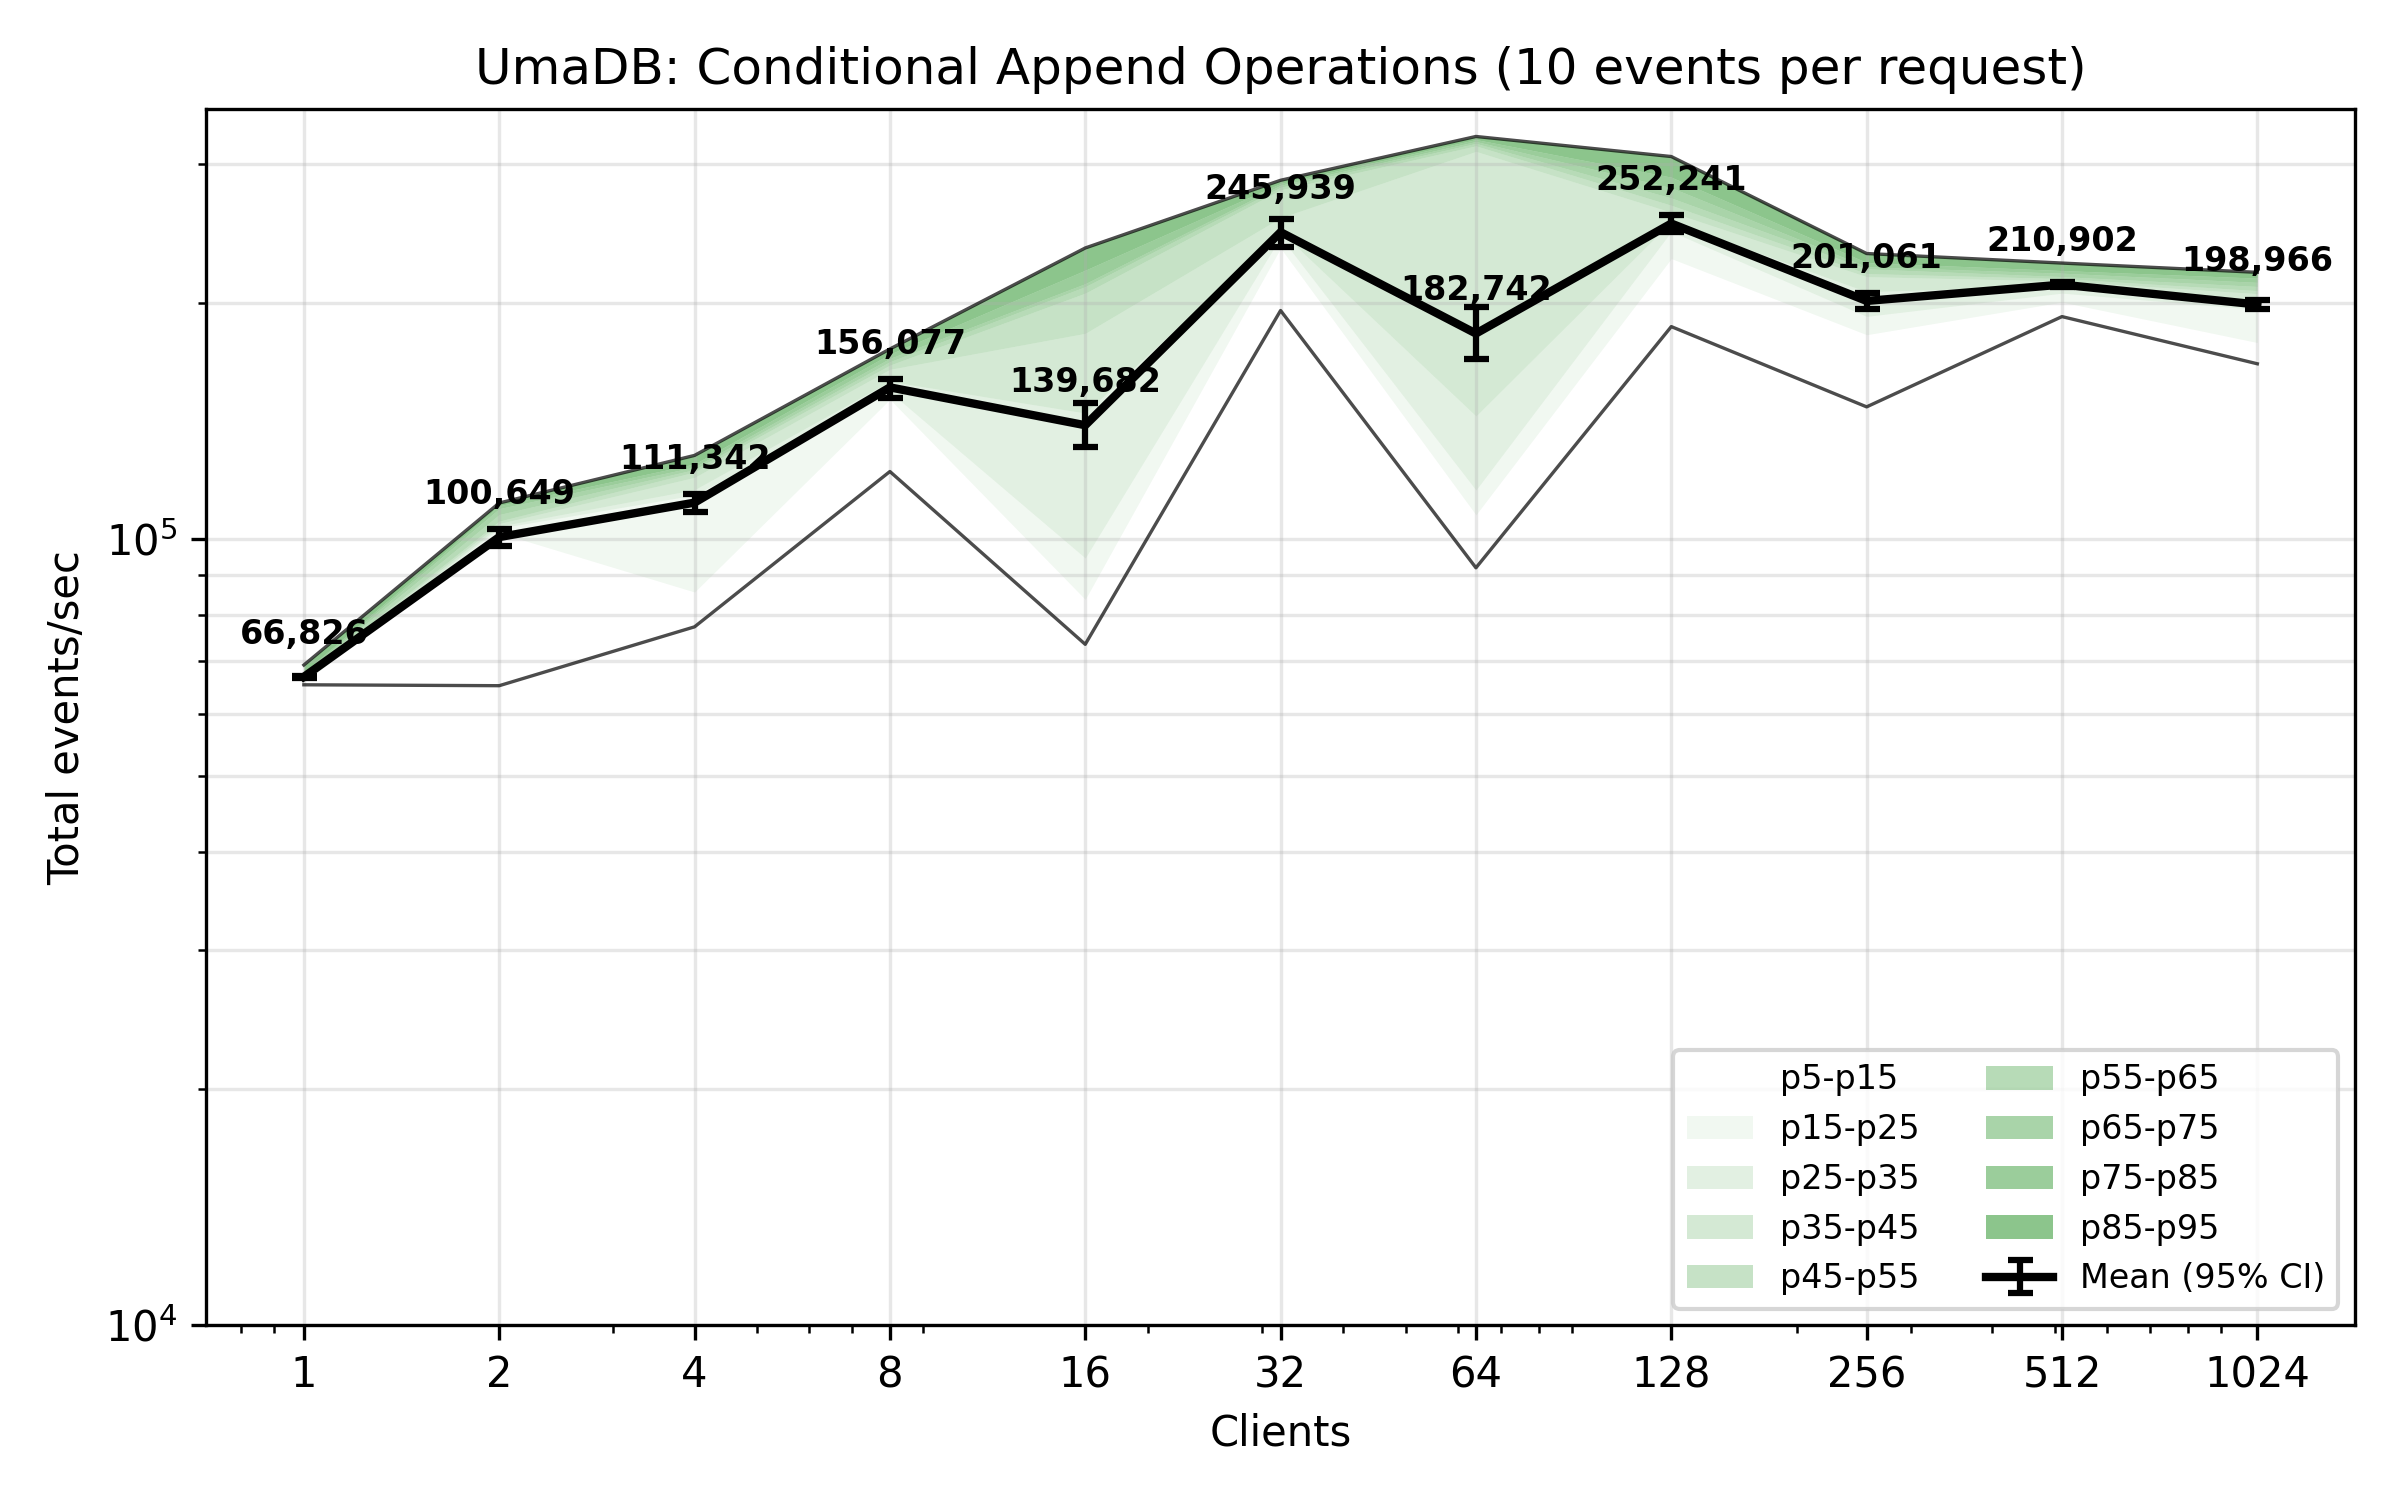
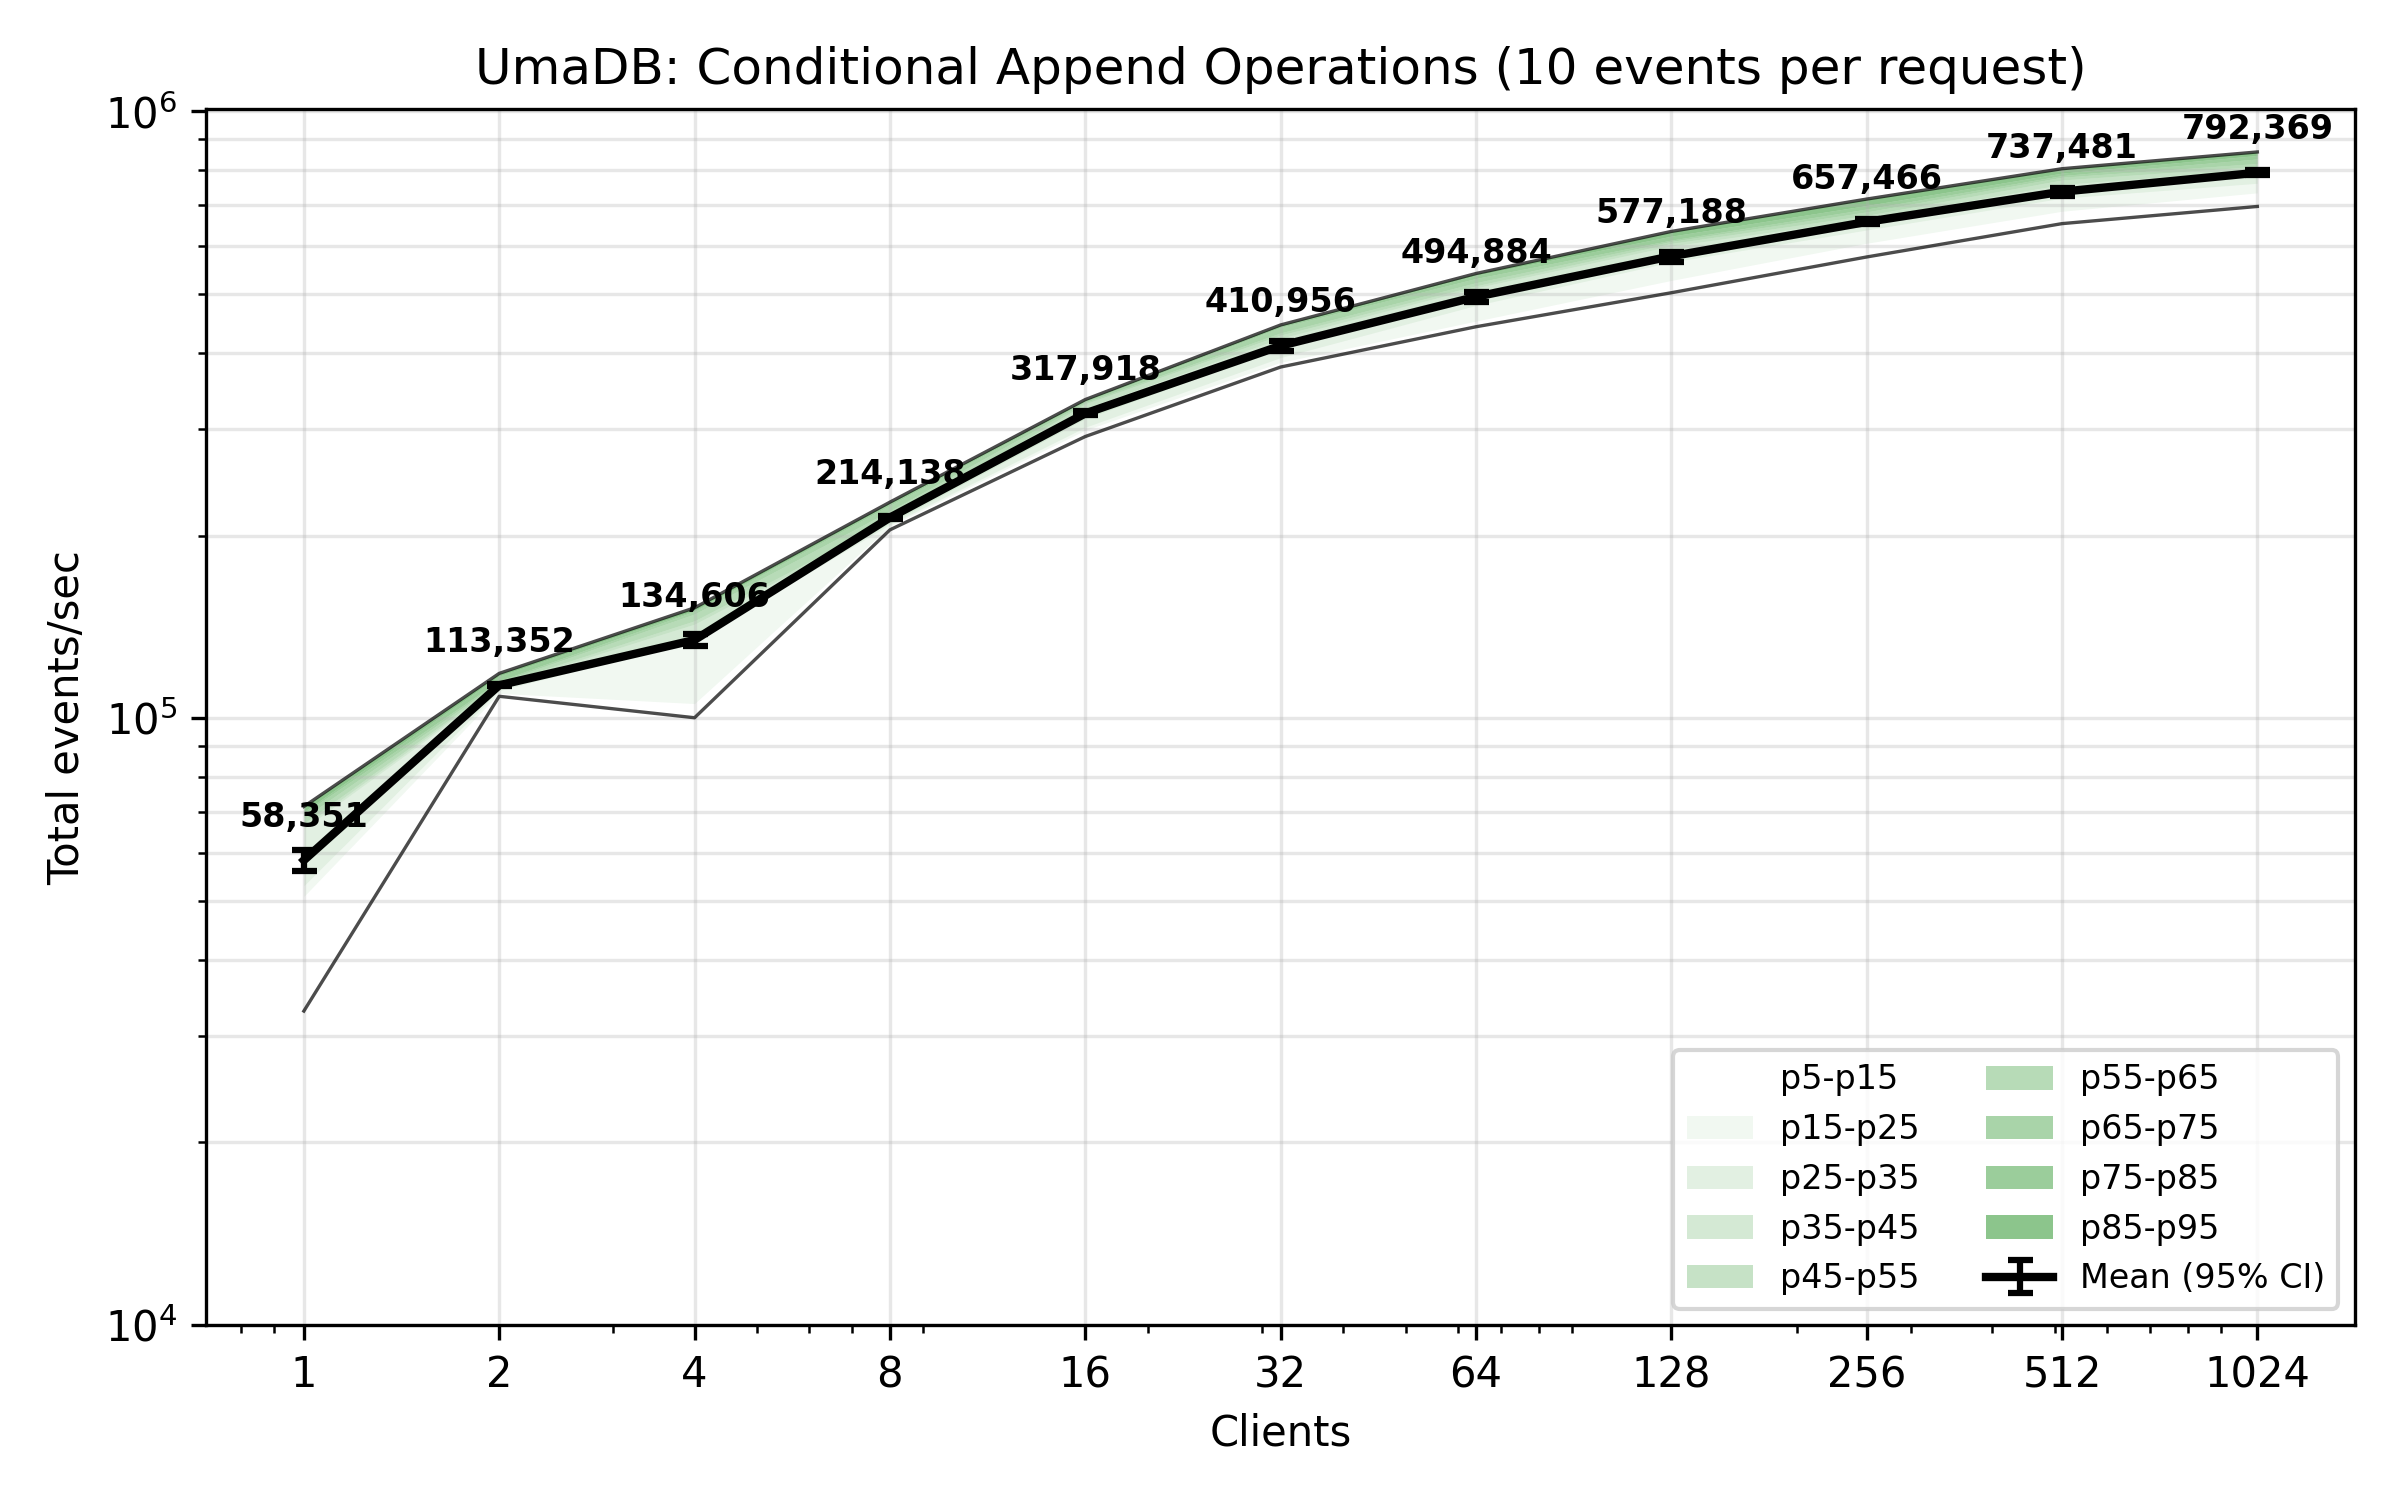
Adjust conditional append benchmark to be more like the unconditional append benchmark, except for using an append condition.

diff --git a/crates/benches/benches/grpc_append_cond_bench.rs b/crates/benches/benches/grpc_append_cond_bench.rs
@@ -8,7 +8,7 @@ use std::time::Duration;
 use tempfile::tempdir;
 use tokio::runtime::Builder as RtBuilder;
 use tokio::sync::oneshot;
-use umadb_client::UmaDBClient;
+use umadb_client::{AsyncUmaDBClient, UmaDBClient};
 use umadb_core::db::UmaDB;
 use umadb_dcb::{
     DCBAppendCondition, DCBEvent, DCBEventStoreAsync, DCBEventStoreSync, DCBQuery, DCBQueryItem,
@@ -19,7 +19,7 @@ fn get_events_per_request() -> usize {
     std::env::var("EVENTS_PER_REQUEST")
         .ok()
         .and_then(|s| s.parse().ok())
-        .unwrap_or(1)
+        .unwrap_or(10)
 }
 
 fn get_max_threads() -> Option<usize> {
@@ -28,7 +28,7 @@ fn get_max_threads() -> Option<usize> {
         .and_then(|s| s.parse().ok())
 }
 
-fn init_db_with_events(num_events: usize) -> (tempfile::TempDir, String) {
+fn init_db_with_events(num_events: usize) -> (tempfile::TempDir, String, u64) {
     let dir = tempdir().expect("tempdir");
     let path = dir.path().to_str().unwrap().to_string();
 
@@ -38,6 +38,7 @@ fn init_db_with_events(num_events: usize) -> (tempfile::TempDir, String) {
     // Prepare events and append in moderate batches to avoid huge allocations
     let batch_size = 1000usize.min(num_events.max(1));
     let mut remaining = num_events;
+    let mut last_position = 0u64;
     while remaining > 0 {
         let current = remaining.min(batch_size);
         let mut events = Vec::with_capacity(current);
@@ -50,16 +51,20 @@ fn init_db_with_events(num_events: usize) -> (tempfile::TempDir, String) {
             };
             events.push(ev);
         }
-        store.append(events, None).expect("append to store");
+        last_position = store.append(events, None).expect("append to store");
         remaining -= current;
     }
 
-    (dir, path)
+    (dir, path, last_position)
 }
 
 pub fn grpc_append_cond_benchmark(c: &mut Criterion) {
+    // for &threads in &[1usize, 2, 4] {
     let events_per_request = get_events_per_request();
     let group_name = format!("grpc_append_cond_{}_per_request", events_per_request);
+    let mut group = c.benchmark_group(&group_name);
+    group.sample_size(200);
+    group.measurement_time(Duration::from_secs(20));
 
     let all_threads = [1usize, 2, 4, 8, 16, 32, 64, 128, 256, 512, 1024];
     let max_threads = get_max_threads();
@@ -70,9 +75,9 @@ pub fn grpc_append_cond_benchmark(c: &mut Criterion) {
         .collect();
 
     for &threads in &thread_counts {
-        // Initialize DB and server with some events so head() is not None (not required, but realistic)
+        // Initialize DB and server with 10_000 events (as requested)
         let initial_events = 10_000usize;
-        let (_tmp_dir, db_path) = init_db_with_events(initial_events);
+        let (_tmp_dir, db_path, last_init_pos) = init_db_with_events(initial_events);
 
         // Find a free localhost port
         let listener = TcpListener::bind("127.0.0.1:0").expect("bind to ephemeral port");
@@ -86,10 +91,10 @@ pub fn grpc_append_cond_benchmark(c: &mut Criterion) {
         let db_path_clone = db_path.clone();
         let addr_clone = addr.clone();
 
-        let parallelism = std::thread::available_parallelism();
-        let server_threads = parallelism.map(|n| n.get()).unwrap_or(1);
-
         let server_thread = thread::spawn(move || {
+            let server_threads = std::thread::available_parallelism()
+                .map(|n| n.get())
+                .unwrap_or(1);
             let rt = RtBuilder::new_multi_thread()
                 .worker_threads(server_threads)
                 .enable_all()
@@ -104,6 +109,7 @@ pub fn grpc_append_cond_benchmark(c: &mut Criterion) {
 
         // Wait until the server is actually accepting connections (avoid race with startup)
         {
+            use std::time::Duration;
             let deadline = std::time::Instant::now() + Duration::from_secs(5);
             loop {
                 if std::net::TcpStream::connect(&addr).is_ok() {
@@ -116,65 +122,50 @@ pub fn grpc_append_cond_benchmark(c: &mut Criterion) {
             }
         }
 
-        let mut group = c.benchmark_group(&group_name);
-        group.sample_size(200);
-        group.measurement_time(Duration::from_secs(20));
+        // Number of events appended per iteration per client
+        let events_per_request = get_events_per_request();
 
-        // Number of events appended per iteration by a single writer client
-        let events_per_iter = events_per_request;
-
-        // Build a single Tokio runtime with fixed number of worker threads
-        let rt = RtBuilder::new_multi_thread()
-            .worker_threads(server_threads)
-            .enable_all()
-            .build()
-            .expect("build tokio rt (writers)");
-
-        // Establish a single gRPC connection
-        let client = Arc::new(
-            rt.block_on(UmaDBClient::new(addr_http.clone()).connect_async())
-                .expect("connect client"),
-        );
-
-        let after = rt
-            .block_on(async { client.head().await.expect("head ok") })
-            .unwrap_or(0);
-
-        // Report throughput as the total across all concurrent appends
+        // Report throughput as the total across all runtime worker threads (informational)
         group.throughput(Throughput::Elements(
-            (events_per_iter as u64) * (threads as u64),
+            (events_per_request as u64) * (threads as u64),
         ));
 
-        // Prepare per-writer state (tag, last_pos)
-        let mut tags: Vec<String> = Vec::with_capacity(threads);
-        for i in 0..threads {
-            tags.push(format!("writer-{}", i));
+        // Build a Tokio runtime and multiple persistent clients (one per concurrent writer)
+        let rt = RtBuilder::new_multi_thread()
+            .worker_threads(threads)
+            .enable_all()
+            .build()
+            .expect("build tokio rt (client)");
+        let mut clients: Vec<Arc<AsyncUmaDBClient>> = Vec::with_capacity(threads);
+        for _ in 0..threads {
+            let c = rt
+                .block_on(UmaDBClient::new(addr_http.clone()).connect_async())
+                .expect("connect client");
+            clients.push(Arc::new(c));
         }
-        let tags = Arc::new(tags);
+        let clients = Arc::new(clients);
 
-        // Initialize last_pos for each writer with current head position
-        let client = client.clone();
-        let rt_handle = rt.handle().clone();
         group.bench_function(BenchmarkId::from_parameter(threads), move |b| {
-            let tags = tags.clone();
+            let clients = clients.clone();
             b.iter(|| {
-                // Spawn threads number of concurrent append tasks using the single client
-                rt_handle.block_on(async {
-                    let futs = (0..threads).map(|i| {
-                        let client = client.clone();
-                        let tag = tags[i].clone();
-                        async move {
-                            // Build event for this writer
-                            let events: Vec<DCBEvent> = (0..events_per_iter)
-                                .map(|j| DCBEvent {
-                                    event_type: "bench-append-cond".to_string(),
-                                    data: format!("data-{}", j).into_bytes(),
-                                    tags: vec![tag.clone()],
-                                    uuid: None,
-                                })
-                                .collect();
+                // Build the batch of events per iteration (per task)
+                let events: Vec<DCBEvent> = (0..events_per_request)
+                    .map(|i| DCBEvent {
+                        event_type: "bench-append".to_string(),
+                        data: format!("data-{i}").into_bytes(),
+                        tags: vec!["append".to_string()],
+                        // tags: vec![format!("append-{i}").to_string()],
+                        uuid: None,
+                    })
+                    .collect();
 
-                            // Build condition: fail if any events with this tag exist after `after`
+                rt.block_on(async {
+                    // Spawn `threads` concurrent append futures and await them all
+                    let futs = (0..threads).map(|i| {
+                        let client = clients[i].clone();
+                        let evs = events.clone();
+                        async move {
+                            // Build append condition: fail if any "init" tagged events exist after last_init_pos
                             let condition = DCBAppendCondition {
                                 fail_if_events_match: DCBQuery {
                                     items: vec![DCBQueryItem {
@@ -182,12 +173,12 @@ pub fn grpc_append_cond_benchmark(c: &mut Criterion) {
                                         tags: vec!["init".to_string()],
                                     }],
                                 },
-                                after: Some(after),
+                                after: Some(last_init_pos),
                             };
 
                             let _ = black_box(
                                 client
-                                    .append(black_box(events), Some(condition))
+                                    .append(black_box(evs), Some(condition))
                                     .await
                                     .expect("append events"),
                             );
@@ -197,13 +188,12 @@ pub fn grpc_append_cond_benchmark(c: &mut Criterion) {
                 });
             });
         });
-
-        group.finish();
-
         // Shutdown server
         let _ = shutdown_tx.send(());
         let _ = server_thread.join();
     }
+
+    group.finish();
 }
 
 criterion_group!(benches, grpc_append_cond_benchmark);
